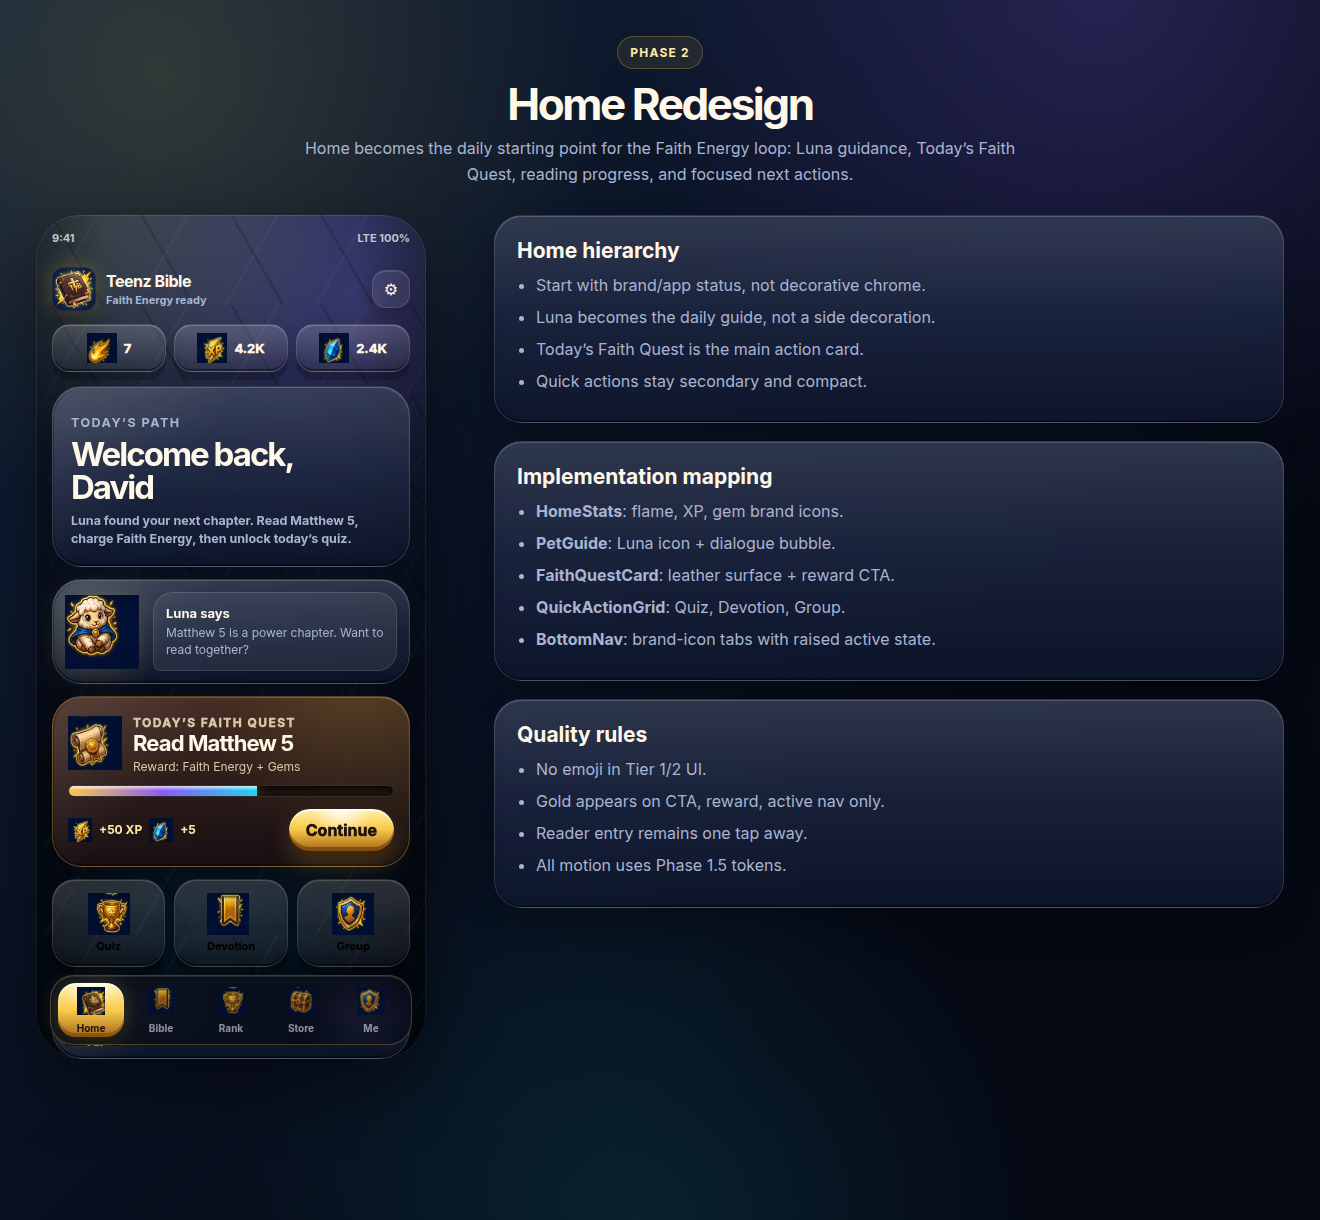
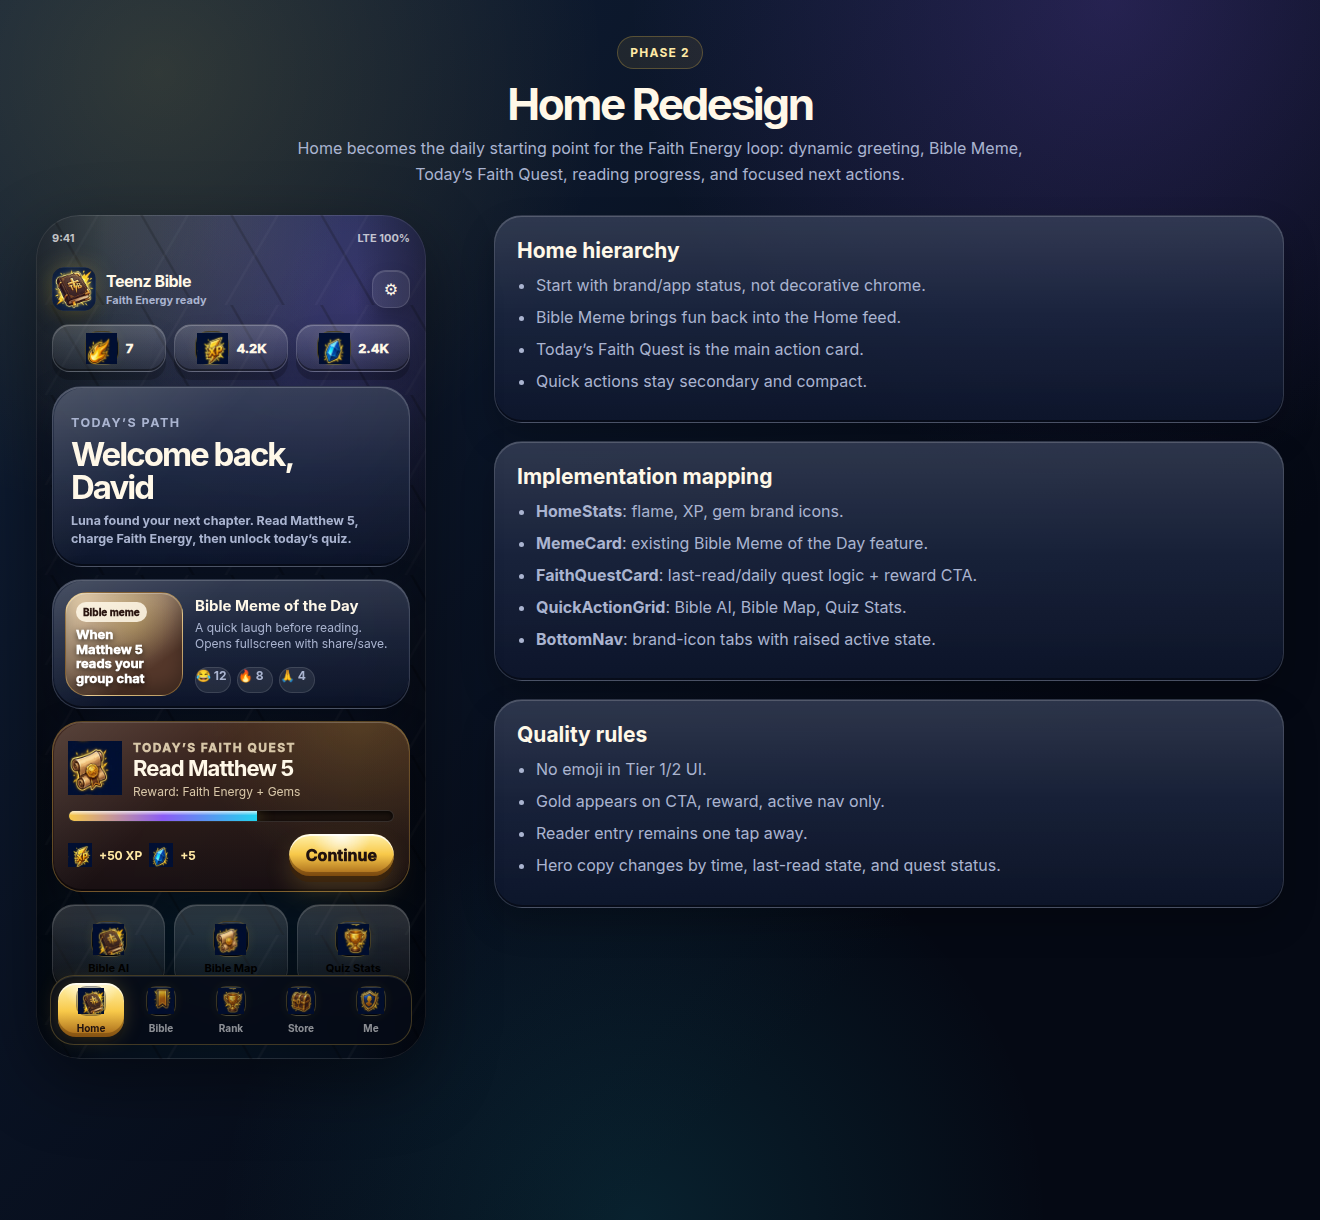
Revise Phase 2 Home based on component feedback

diff --git a/design-mockups/phase-2-home-redesign.html b/design-mockups/phase-2-home-redesign.html
@@ -177,7 +177,20 @@
       font-weight: 950;
       font-size: 13px;
     }
-    .stat img { width: 30px; height: 30px; object-fit: contain; }
+    .icon-frame {
+      display: grid;
+      place-items: center;
+      width: 36px;
+      height: 36px;
+      border-radius: 13px;
+      background:
+        radial-gradient(circle at 50% 0%, rgba(255,255,255,.14), transparent 52%),
+        linear-gradient(180deg, rgba(7,20,38,.96), rgba(4,8,18,.96));
+      border: 1px solid rgba(248,201,74,.28);
+      box-shadow: inset 0 1px 0 rgba(255,255,255,.12), inset 0 -2px 0 rgba(0,0,0,.48), 0 0 12px rgba(255,226,77,.08);
+    }
+    .icon-frame img { width: 31px; height: 31px; object-fit: contain; }
+    .stat .icon-frame { width: 34px; height: 34px; }
 
     .card {
       position: relative;
@@ -250,6 +263,73 @@
     }
     .bubble b { display: block; font-size: 13px; }
     .bubble span { display: block; margin-top: 4px; color: var(--muted); font-size: 12px; line-height: 1.35; }
+
+    .meme {
+      display: grid;
+      grid-template-columns: 118px 1fr;
+      gap: 12px;
+      align-items: stretch;
+      padding: 12px;
+      margin-bottom: 12px;
+    }
+    .meme-art {
+      position: relative;
+      overflow: hidden;
+      min-height: 104px;
+      border-radius: 22px;
+      background:
+        radial-gradient(circle at 58% 28%, rgba(255,226,77,.18), transparent 42%),
+        linear-gradient(145deg, #f5dfb9, #54372a 74%);
+      border: 1px solid rgba(248,201,74,.28);
+      box-shadow: inset 0 1px 0 rgba(255,255,255,.28), inset 0 -8px 18px rgba(0,0,0,.3);
+    }
+    .meme-art::before {
+      content: "Bible meme";
+      position: absolute;
+      left: 10px;
+      top: 9px;
+      padding: 4px 7px;
+      border-radius: 999px;
+      color: #2b1712;
+      background: rgba(255,248,232,.86);
+      font-size: 10px;
+      font-weight: 950;
+    }
+    .meme-art::after {
+      content: "When Matthew 5 reads your group chat";
+      position: absolute;
+      left: 10px;
+      right: 10px;
+      bottom: 10px;
+      color: white;
+      font-size: 13px;
+      line-height: 1.12;
+      font-weight: 950;
+      text-shadow: 0 2px 6px rgba(0,0,0,.7);
+    }
+    .meme-copy {
+      min-width: 0;
+      align-self: center;
+    }
+    .meme-copy b { display: block; font-size: 15px; }
+    .meme-copy span { display: block; margin-top: 5px; color: var(--muted); font-size: 12px; line-height: 1.35; }
+    .reactions {
+      display: flex;
+      gap: 6px;
+      margin-top: 10px;
+    }
+    .react {
+      min-width: 36px;
+      height: 26px;
+      display: inline-flex;
+      align-items: center;
+      justify-content: center;
+      border-radius: 999px;
+      background: rgba(255,255,255,.08);
+      border: 1px solid rgba(255,255,255,.12);
+      font-size: 12px;
+      font-weight: 900;
+    }
 
     .quest {
       padding: 15px;
@@ -332,7 +412,7 @@
       border: 1px solid rgba(255,255,255,.13);
       box-shadow: inset 0 1px 0 rgba(255,255,255,.2), inset 0 -2px 0 rgba(0,0,0,.4), 0 8px 0 rgba(0,0,0,.18), 0 16px 26px rgba(0,0,0,.18);
     }
-    .quick img { width: 42px; height: 42px; object-fit: contain; }
+    .quick .icon-frame { margin: 0 auto; }
     .quick b { display: block; margin-top: 4px; font-size: 11px; }
 
     .ai {
@@ -382,7 +462,8 @@
       font-size: 10px;
       font-weight: 900;
     }
-    .tab img { width: 28px; height: 28px; object-fit: contain; opacity: .75; }
+    .tab .icon-frame { width: 30px; height: 30px; border-radius: 10px; opacity: .78; }
+    .tab .icon-frame img { width: 26px; height: 26px; object-fit: contain; }
     .tab.active {
       color: #21120f;
       background:
@@ -390,7 +471,7 @@
         linear-gradient(180deg, #fff3b0, var(--faith-gold) 52%, #a46617);
       box-shadow: inset 0 2px rgba(255,255,255,.7), inset 0 -4px rgba(92,54,10,.42), 0 0 20px rgba(248,201,74,.22), 0 6px 0 rgba(0,0,0,.2);
     }
-    .tab.active img { opacity: 1; }
+    .tab.active .icon-frame { opacity: 1; background: rgba(7,20,38,.28); border-color: rgba(33,18,15,.18); box-shadow: none; }
 
     .notes {
       display: grid;
@@ -415,7 +496,7 @@
     <header class="header">
       <span class="badge">Phase 2</span>
       <h1>Home Redesign</h1>
-      <p>Home becomes the daily starting point for the Faith Energy loop: Luna guidance, Today’s Faith Quest, reading progress, and focused next actions.</p>
+      <p>Home becomes the daily starting point for the Faith Energy loop: dynamic greeting, Bible Meme, Today’s Faith Quest, reading progress, and focused next actions.</p>
     </header>
     <section class="stage">
       <div class="phone">
@@ -428,20 +509,21 @@
           <div class="settings">⚙</div>
         </div>
         <div class="stats">
-          <div class="stat"><img src="../client/public/art-assets/brand-icons/flame-streak.webp" alt="" />7</div>
-          <div class="stat"><img src="../client/public/art-assets/brand-icons/xp-lightning.webp" alt="" />4.2K</div>
-          <div class="stat"><img src="../client/public/art-assets/brand-icons/gem-crystal.webp" alt="" />2.4K</div>
+          <div class="stat"><span class="icon-frame"><img src="../client/public/art-assets/brand-icons/flame-streak.webp" alt="" /></span>7</div>
+          <div class="stat"><span class="icon-frame"><img src="../client/public/art-assets/brand-icons/xp-lightning.webp" alt="" /></span>4.2K</div>
+          <div class="stat"><span class="icon-frame"><img src="../client/public/art-assets/brand-icons/gem-crystal.webp" alt="" /></span>2.4K</div>
         </div>
         <section class="card hero-card">
           <p class="eyebrow">Today’s path</p>
           <h1>Welcome back,<br />David</h1>
           <p>Luna found your next chapter. Read Matthew 5, charge Faith Energy, then unlock today’s quiz.</p>
         </section>
-        <section class="card luna">
-          <img class="luna-img" src="../client/public/art-assets/brand-icons/luna-lamb-pet.webp" alt="Luna" />
-          <div class="bubble">
-            <b>Luna says</b>
-            <span>Matthew 5 is a power chapter. Want to read together?</span>
+        <section class="card meme">
+          <div class="meme-art"></div>
+          <div class="meme-copy">
+            <b>Bible Meme of the Day</b>
+            <span>A quick laugh before reading. Opens fullscreen with share/save.</span>
+            <div class="reactions"><span class="react">😂 12</span><span class="react">🔥 8</span><span class="react">🙏 4</span></div>
           </div>
         </section>
         <section class="card quest">
@@ -463,21 +545,16 @@
           </div>
         </section>
         <div class="quick-grid">
-          <button class="quick"><div><img src="../client/public/art-assets/brand-icons/gold-trophy.webp" alt="" /><b>Quiz</b></div></button>
-          <button class="quick"><div><img src="../client/public/art-assets/brand-icons/bookmark.webp" alt="" /><b>Devotion</b></div></button>
-          <button class="quick"><div><img src="../client/public/art-assets/brand-icons/shield-profile.webp" alt="" /><b>Group</b></div></button>
+          <button class="quick"><div><span class="icon-frame"><img src="../client/public/art-assets/brand-icons/bible-book.webp" alt="" /></span><b>Bible AI</b></div></button>
+          <button class="quick"><div><span class="icon-frame"><img src="../client/public/art-assets/brand-icons/quest-scroll.webp" alt="" /></span><b>Bible Map</b></div></button>
+          <button class="quick"><div><span class="icon-frame"><img src="../client/public/art-assets/brand-icons/gold-trophy.webp" alt="" /></span><b>Quiz Stats</b></div></button>
         </div>
-        <section class="card ai">
-          <img src="../client/public/art-assets/brand-icons/bible-book.webp" alt="" />
-          <div><b>Bible AI</b><span>Ask with reading context</span></div>
-          <button class="open">Open</button>
-        </section>
         <nav class="tabbar">
-          <div class="tab active"><img src="../client/public/art-assets/brand-icons/bible-book.webp" alt="" />Home</div>
-          <div class="tab"><img src="../client/public/art-assets/brand-icons/bookmark.webp" alt="" />Bible</div>
-          <div class="tab"><img src="../client/public/art-assets/brand-icons/gold-trophy.webp" alt="" />Rank</div>
-          <div class="tab"><img src="../client/public/art-assets/brand-icons/treasure-chest.webp" alt="" />Store</div>
-          <div class="tab"><img src="../client/public/art-assets/brand-icons/shield-profile.webp" alt="" />Me</div>
+          <div class="tab active"><span class="icon-frame"><img src="../client/public/art-assets/brand-icons/bible-book.webp" alt="" /></span>Home</div>
+          <div class="tab"><span class="icon-frame"><img src="../client/public/art-assets/brand-icons/bookmark.webp" alt="" /></span>Bible</div>
+          <div class="tab"><span class="icon-frame"><img src="../client/public/art-assets/brand-icons/gold-trophy.webp" alt="" /></span>Rank</div>
+          <div class="tab"><span class="icon-frame"><img src="../client/public/art-assets/brand-icons/treasure-chest.webp" alt="" /></span>Store</div>
+          <div class="tab"><span class="icon-frame"><img src="../client/public/art-assets/brand-icons/shield-profile.webp" alt="" /></span>Me</div>
         </nav>
       </div>
       <aside class="notes">
@@ -485,7 +562,7 @@
           <h3>Home hierarchy</h3>
           <ul>
             <li>Start with brand/app status, not decorative chrome.</li>
-            <li>Luna becomes the daily guide, not a side decoration.</li>
+            <li>Bible Meme brings fun back into the Home feed.</li>
             <li>Today’s Faith Quest is the main action card.</li>
             <li>Quick actions stay secondary and compact.</li>
           </ul>
@@ -494,9 +571,9 @@
           <h3>Implementation mapping</h3>
           <ul>
             <li><b>HomeStats</b>: flame, XP, gem brand icons.</li>
-            <li><b>PetGuide</b>: Luna icon + dialogue bubble.</li>
-            <li><b>FaithQuestCard</b>: leather surface + reward CTA.</li>
-            <li><b>QuickActionGrid</b>: Quiz, Devotion, Group.</li>
+            <li><b>MemeCard</b>: existing Bible Meme of the Day feature.</li>
+            <li><b>FaithQuestCard</b>: last-read/daily quest logic + reward CTA.</li>
+            <li><b>QuickActionGrid</b>: Bible AI, Bible Map, Quiz Stats.</li>
             <li><b>BottomNav</b>: brand-icon tabs with raised active state.</li>
           </ul>
         </div>
@@ -506,7 +583,7 @@
             <li>No emoji in Tier 1/2 UI.</li>
             <li>Gold appears on CTA, reward, active nav only.</li>
             <li>Reader entry remains one tap away.</li>
-            <li>All motion uses Phase 1.5 tokens.</li>
+            <li>Hero copy changes by time, last-read state, and quest status.</li>
           </ul>
         </div>
       </aside>

diff --git a/design-mockups/phase-2-home-redesign.md b/design-mockups/phase-2-home-redesign.md
@@ -27,10 +27,10 @@ Open app -> Luna guides -> Today’s Faith Quest -> Continue Reading -> Reward -
    - Welcome back
    - Short contextual guidance
 
-4. Luna guide
-   - Luna icon
-   - Dialogue bubble
-   - Daily encouragement
+4. Bible Meme of the Day
+   - Uses the existing app meme feature
+   - Opens fullscreen
+   - Supports reactions/share/save
 
 5. Today’s Faith Quest
    - Quest scroll icon
@@ -40,14 +40,11 @@ Open app -> Luna guides -> Today’s Faith Quest -> Continue Reading -> Reward -
    - Continue CTA
 
 6. Quick actions
-   - Quiz
-   - Devotion
-   - Group
+   - Bible AI
+   - Bible Map
+   - Quiz Stats
 
-7. Bible AI
-   - Contextual shortcut
-
-8. Bottom navigation
+7. Bottom navigation
    - Brand icons
    - Raised active state
 
@@ -55,10 +52,9 @@ Open app -> Luna guides -> Today’s Faith Quest -> Continue Reading -> Reward -
 
 - `HomeStats`
 - `HomeHero`
-- `PetGuide`
+- `MemeCard`
 - `FaithQuestCard`
 - `QuickActionGrid`
-- `BibleAIShortcut`
 - `BottomNav`
 
 ## Data mapping
@@ -66,12 +62,73 @@ Open app -> Luna guides -> Today’s Faith Quest -> Continue Reading -> Reward -
 | Component | Data |
 |---|---|
 | HomeStats | `teensBible.streak`, `totalXP`, `teensBible.gems` |
-| HomeHero | `playerName`, `lastReadBook`, `lastReadChapter` |
-| PetGuide | equipped pet, mood, dialogue |
-| FaithQuestCard | daily quest, chapter progress, reward preview |
-| QuickActionGrid | routes: Bible/Quiz, Devotion, Group/Ranking |
-| BibleAIShortcut | `/bible-ai` |
+| HomeHero | `playerName`, time of day, `lastReadBook`, `lastReadChapter`, daily quest status |
+| MemeCard | `getDailyMemeUrl()`, meme reactions, fullscreen/share/save state |
+| FaithQuestCard | last-read state, daily quest, chapter progress, reward preview |
+| QuickActionGrid | routes: `/bible-ai`, `/bible-map`, `/quiz-stats` |
 | BottomNav | current route |
+
+## H3 Home Hero dynamic copy logic
+
+H3 should not be static marketing copy. It should be generated from user state.
+
+Suggested logic:
+
+```ts
+const greeting = getTimeGreeting(); // Morning / Afternoon / Evening
+const name = playerName || "friend";
+const lastRead = getLastRead();
+const quest = getTodayFaithQuest();
+
+if (lastRead) {
+  title = `${greeting}, ${name}`;
+  body = `Continue ${lastRead.book} ${lastRead.chapter}. Today's quest is ready.`;
+} else if (quest) {
+  title = `${greeting}, ${name}`;
+  body = `Start today's Faith Quest: ${quest.book} ${quest.chapter}.`;
+} else {
+  title = `${greeting}, ${name}`;
+  body = "Choose a chapter and begin your Faith Energy streak.";
+}
+```
+
+Possible body inputs:
+
+- `lastReadBook`
+- `lastReadChapter`
+- `chaptersRead_*`
+- `teensBibleDailyStreak`
+- daily quest seed
+- time of day
+
+## H5 Faith Quest behavior
+
+H5 is the main Home action card.
+
+It should resolve in this order:
+
+1. If user has last-read chapter: continue that chapter.
+2. Else if daily quest exists: show daily quest chapter.
+3. Else default to a recommended chapter.
+
+Progress:
+
+- If reading same chapter: use chapter scroll/read progress.
+- If already partially completed: show section count or percent.
+- If completed: show completed state and link to quiz/reward.
+
+CTA:
+
+- `Continue` if in progress.
+- `Start` if new.
+- `Claim Reward` if completed but reward not claimed.
+- `Take Quiz` if reward claimed and quiz available.
+
+Reward preview:
+
+- XP from chapter completion
+- Gems from quest or quiz
+- Streak impact if applicable
 
 ## Confirmation question
 
